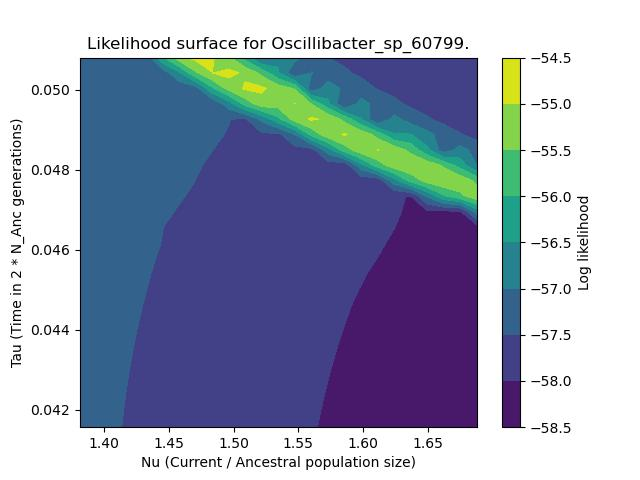
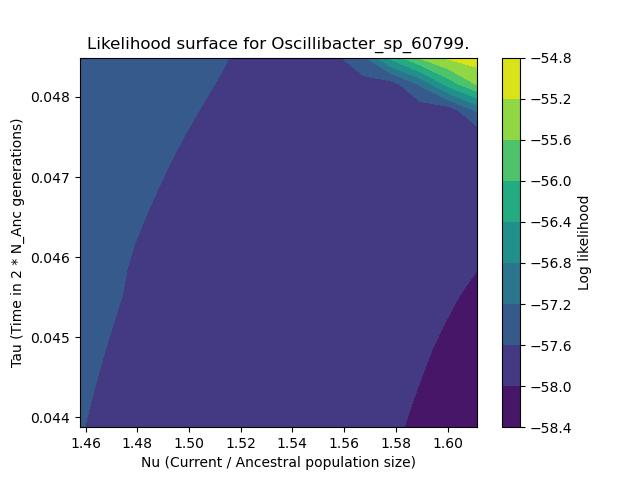
Oscill

diff --git a/Scripts/plot_likelihood.py b/Scripts/plot_likelihood.py
@@ -471,9 +471,12 @@ class PlotLikelihood():
                 # y_range = numpy.linspace(y  * 0.9, y * 1.3, npts)
 
                 # E. eligens
-                x_range = numpy.linspace(x * 0.7, x * 1.3, npts)
-                y_range = numpy.linspace(y * 0.95, y * 1.05, npts)
+                # x_range = numpy.linspace(x * 0.7, x * 1.3, npts)
+                # y_range = numpy.linspace(y * 0.95, y * 1.05, npts)
                 
+                # Oscillibacter species
+                x_range = numpy.linspace(x * 0.95, x * 1.05, npts)
+                y_range = numpy.linspace(y * 0.95, y * 1.05, npts)
 
                 X, Y = numpy.meshgrid(x_range, y_range)
 
